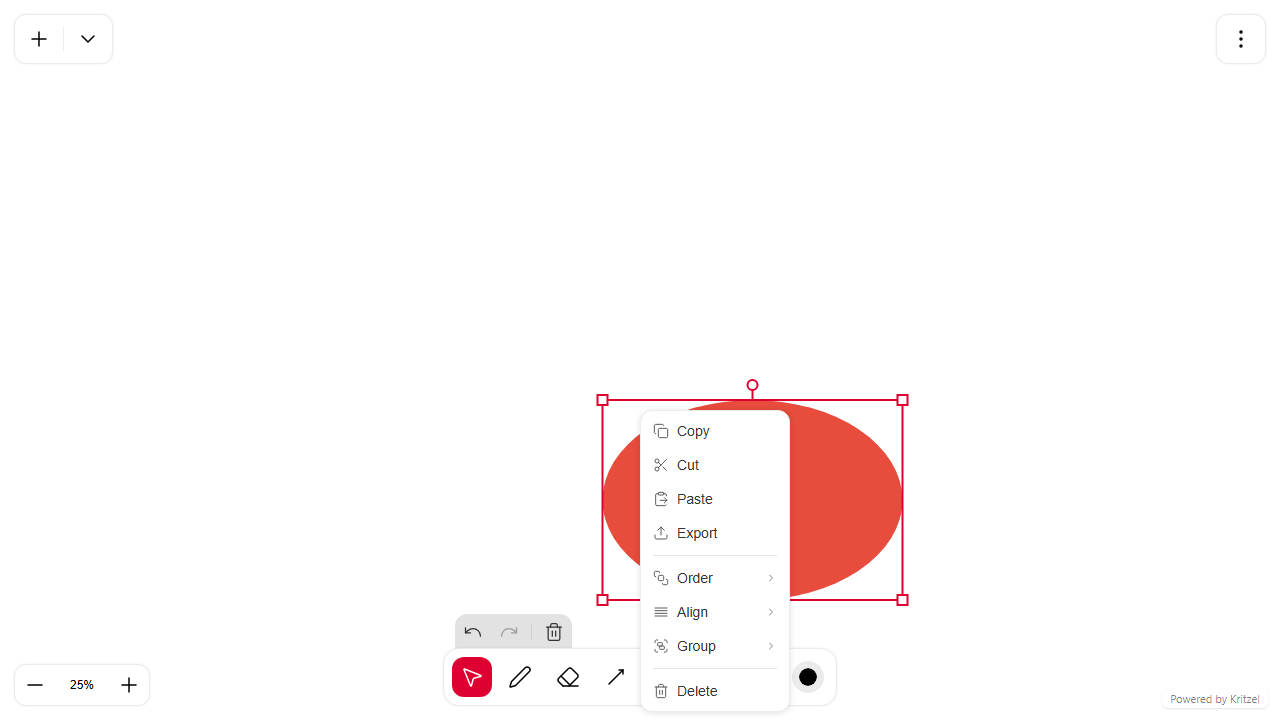
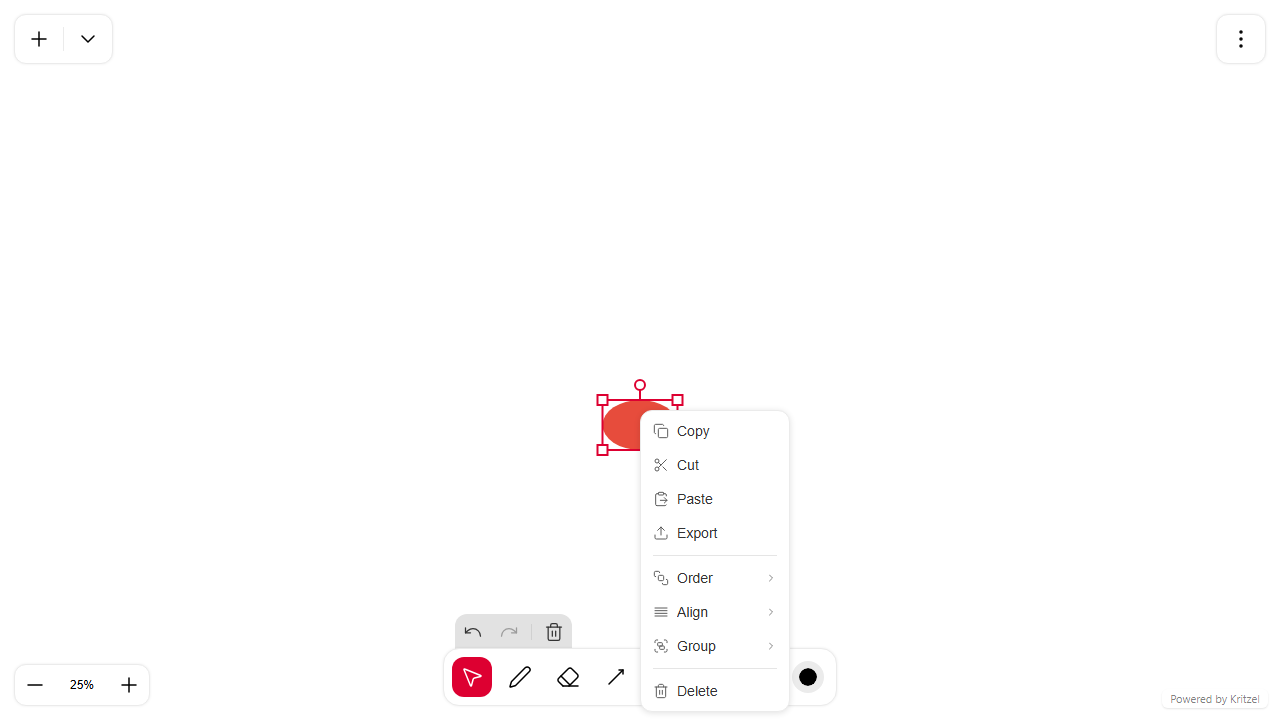
#380: Regenerate context-menu-zoomed-out-paste-position-object

diff --git a/libs/kritzel-stencil/src/components.d.ts b/libs/kritzel-stencil/src/components.d.ts
@@ -517,7 +517,7 @@ export namespace Components {
         "setLoginLoading": (provider: string | null) => Promise<void>;
         "setViewport": (x: number, y: number, scale: number) => Promise<void>;
         /**
-          * @default {   providers: [IndexedDBSyncProvider], }
+          * @default {   providers: [], }
          */
         "syncConfig"?: KritzelSyncConfig;
         /**
@@ -2967,7 +2967,7 @@ declare namespace LocalJSX {
          */
         "scaleMin"?: number;
         /**
-          * @default {   providers: [IndexedDBSyncProvider], }
+          * @default {   providers: [], }
          */
         "syncConfig"?: KritzelSyncConfig;
         /**

diff --git a/libs/kritzel-stencil/src/configs/default-sync.config.ts b/libs/kritzel-stencil/src/configs/default-sync.config.ts
@@ -1,9 +1,8 @@
-import { IndexedDBSyncProvider } from '../classes/providers/sync/indexeddb-sync-provider.class';
 import { KritzelSyncConfig } from '../interfaces/sync-config.interface';
 
 /**
  * Default sync configuration - None
  */
 export const DEFAULT_SYNC_CONFIG: KritzelSyncConfig = {
-  providers: [IndexedDBSyncProvider],
+  providers: [],
 };

diff --git a/libs/kritzel-stencil/src/components/core/kritzel-editor/readme.md b/libs/kritzel-stencil/src/components/core/kritzel-editor/readme.md
@@ -33,7 +33,7 @@
 | `objectContextMenuItems`    | --                             |                                                                                                                                                                    | `ContextMenuItem[]`                         | `[     { label: 'menu.copy', icon: 'copy', group: 'clipboard', action: () => this.engineRef.copy() },     { label: 'menu.cut', icon: 'cut', group: 'clipboard', action: () => this.engineRef.cut() },     {       label: 'menu.paste',       icon: 'paste',       group: 'clipboard',       action: (menu, _) => this.engineRef.paste(menu.x, menu.y),     },     {       label: 'menu.export',       icon: 'upload',       group: 'clipboard',       isVisible: (_, objects) => this.canExportObjects(objects),       action: (_, objects) => {         const format = this.getPreferredExportFormat(objects);         if (!format) {           return;         }          void this.engineRef.exportSelectedObject(format);       },     },     {       label: 'menu.order',       icon: 'ordering',       group: 'other',       children: [         { label: 'menu.bringToFront', icon: 'bring-to-front', action: () => this.engineRef.bringToFront() },         { label: 'menu.sendToBack', icon: 'send-to-back', action: () => this.engineRef.sendToBack() },         { label: 'menu.moveUp', icon: 'arrow-up-from-dot', action: () => this.engineRef.bringForward() },         { label: 'menu.moveDown', icon: 'arrow-down-from-dot', action: () => this.engineRef.sendBackward() },       ],     },     {       label: 'menu.align',       icon: 'align',       group: 'other',       children: [         { label: 'menu.alignLeft', icon: 'align-start-vertical', action: () => this.engineRef.alignObjects(KritzelAlignment.StartHorizontal) },         { label: 'menu.alignCenterHorizontal', icon: 'align-center-horizontal', action: () => this.engineRef.alignObjects(KritzelAlignment.CenterHorizontal) },         { label: 'menu.alignRight', icon: 'align-end-vertical', action: () => this.engineRef.alignObjects(KritzelAlignment.EndHorizontal) },         { label: 'menu.alignTop', icon: 'align-start-horizontal', action: () => this.engineRef.alignObjects(KritzelAlignment.StartVertical) },         { label: 'menu.alignCenterVertical', icon: 'align-center-vertical', action: () => this.engineRef.alignObjects(KritzelAlignment.CenterVertical) },         { label: 'menu.alignBottom', icon: 'align-end-horizontal', action: () => this.engineRef.alignObjects(KritzelAlignment.EndVertical) },       ],     },     {       label: 'menu.group',       icon: 'group',       group: 'other',       children: [         {           label: 'menu.group',           icon: 'group',           action: () => this.engineRef.group(),         },         {           label: 'menu.ungroup',           icon: 'ungroup',           action: () => this.engineRef.ungroup(),         },       ],     },     { label: 'menu.delete', icon: 'delete', group: 'edit', action: () => this.engineRef.delete() },   ]` |
 | `scaleMax`                  | `scale-max`                    |                                                                                                                                                                    | `number`                                    | `1000`                                                                                                                                                                                                                                                                                                                                                                                                                                                                                                                                                                                                                                                                                                                                                                                                                                                                                                                                                                                                                                                                                                                                                                                                                                                                                                                                                                                                                                                                                                                                                                                                                                                                                                                                                                                                                                                                                                                                                                                                                                                                                                                                                                                                                                                                                                                                                                                                                                                                                                                                                                                                                                                                                                                                                                                                                              |
 | `scaleMin`                  | `scale-min`                    |                                                                                                                                                                    | `number`                                    | `0.0001`                                                                                                                                                                                                                                                                                                                                                                                                                                                                                                                                                                                                                                                                                                                                                                                                                                                                                                                                                                                                                                                                                                                                                                                                                                                                                                                                                                                                                                                                                                                                                                                                                                                                                                                                                                                                                                                                                                                                                                                                                                                                                                                                                                                                                                                                                                                                                                                                                                                                                                                                                                                                                                                                                                                                                                                                                            |
-| `syncConfig`                | --                             |                                                                                                                                                                    | `KritzelSyncConfig`                         | `{   providers: [IndexedDBSyncProvider], }`                                                                                                                                                                                                                                                                                                                                                                                                                                                                                                                                                                                                                                                                                                                                                                                                                                                                                                                                                                                                                                                                                                                                                                                                                                                                                                                                                                                                                                                                                                                                                                                                                                                                                                                                                                                                                                                                                                                                                                                                                                                                                                                                                                                                                                                                                                                                                                                                                                                                                                                                                                                                                                                                                                                                                                                         |
+| `syncConfig`                | --                             |                                                                                                                                                                    | `KritzelSyncConfig`                         | `{   providers: [], }`                                                                                                                                                                                                                                                                                                                                                                                                                                                                                                                                                                                                                                                                                                                                                                                                                                                                                                                                                                                                                                                                                                                                                                                                                                                                                                                                                                                                                                                                                                                                                                                                                                                                                                                                                                                                                                                                                                                                                                                                                                                                                                                                                                                                                                                                                                                                                                                                                                                                                                                                                                                                                                                                                                                                                                                                              |
 | `theme`                     | `theme`                        |                                                                                                                                                                    | `"dark" \| "light" \| string & {}`          | `'light'`                                                                                                                                                                                                                                                                                                                                                                                                                                                                                                                                                                                                                                                                                                                                                                                                                                                                                                                                                                                                                                                                                                                                                                                                                                                                                                                                                                                                                                                                                                                                                                                                                                                                                                                                                                                                                                                                                                                                                                                                                                                                                                                                                                                                                                                                                                                                                                                                                                                                                                                                                                                                                                                                                                                                                                                                                           |
 | `themes`                    | --                             |                                                                                                                                                                    | `KritzelTheme[]`                            | `undefined`                                                                                                                                                                                                                                                                                                                                                                                                                                                                                                                                                                                                                                                                                                                                                                                                                                                                                                                                                                                                                                                                                                                                                                                                                                                                                                                                                                                                                                                                                                                                                                                                                                                                                                                                                                                                                                                                                                                                                                                                                                                                                                                                                                                                                                                                                                                                                                                                                                                                                                                                                                                                                                                                                                                                                                                                                         |
 | `toolbarItems`              | --                             |                                                                                                                                                                    | `KritzelToolbarItem[]`                      | `[     {       name: 'selection',       type: 'tool',       isDefault: true,       tool: KritzelSelectionTool,       icon: 'cursor',     },     {       name: 'brush',       type: 'tool',       tool: KritzelBrushTool,       icon: 'pen',       config: DEFAULT_BRUSH_CONFIG,     },     {       name: 'eraser',       type: 'tool',       tool: KritzelEraserTool,       icon: 'eraser',     },     {       name: 'line',       type: 'tool',       tool: KritzelLineTool,       icon: 'arrow',       config: DEFAULT_LINE_TOOL_CONFIG,     },     {       name: 'shape',       type: 'tool',       tool: KritzelShapeTool,       icon: 'shape-rectangle',       config: DEFAULT_SHAPE_CONFIG,       subOptions: [         { id: 'rectangle', icon: 'shape-rectangle', label: 'Rectangle', value: ShapeType.Rectangle, toolProperty: 'shapeType' },         { id: 'ellipse', icon: 'shape-ellipse', label: 'Ellipse', value: ShapeType.Ellipse, toolProperty: 'shapeType' },         { id: 'triangle', icon: 'shape-triangle', label: 'Triangle', value: ShapeType.Triangle, toolProperty: 'shapeType' },       ],     },     {       name: 'text',       type: 'tool',       tool: KritzelTextTool,       icon: 'type',       config: DEFAULT_TEXT_CONFIG,     },     {       name: 'image',       type: 'tool',       tool: KritzelImageTool,       icon: 'image',     },     {       name: 'config',       type: 'config',     },   ]`                                                                                                                                                                                                                                                                                                                                                                                                                                                                                                                                                                                                                                                                                                                                                                                                                                                                                                                                                                                                                                                                                                                                                                                                                                                                                                                                                                                        |
